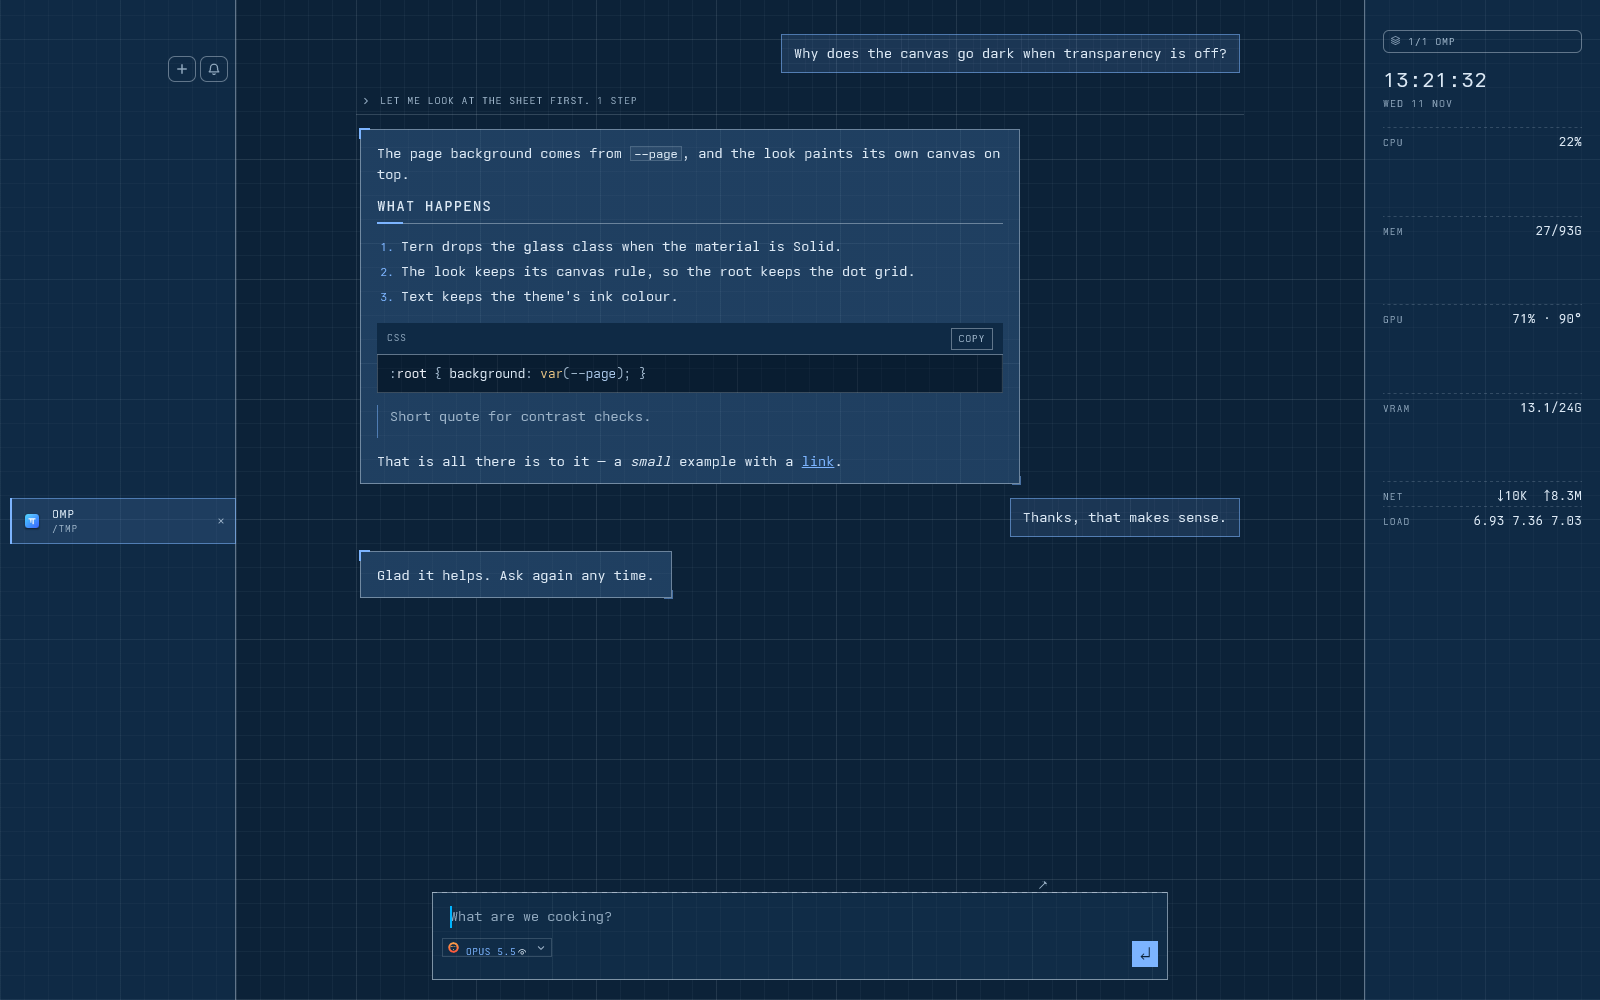
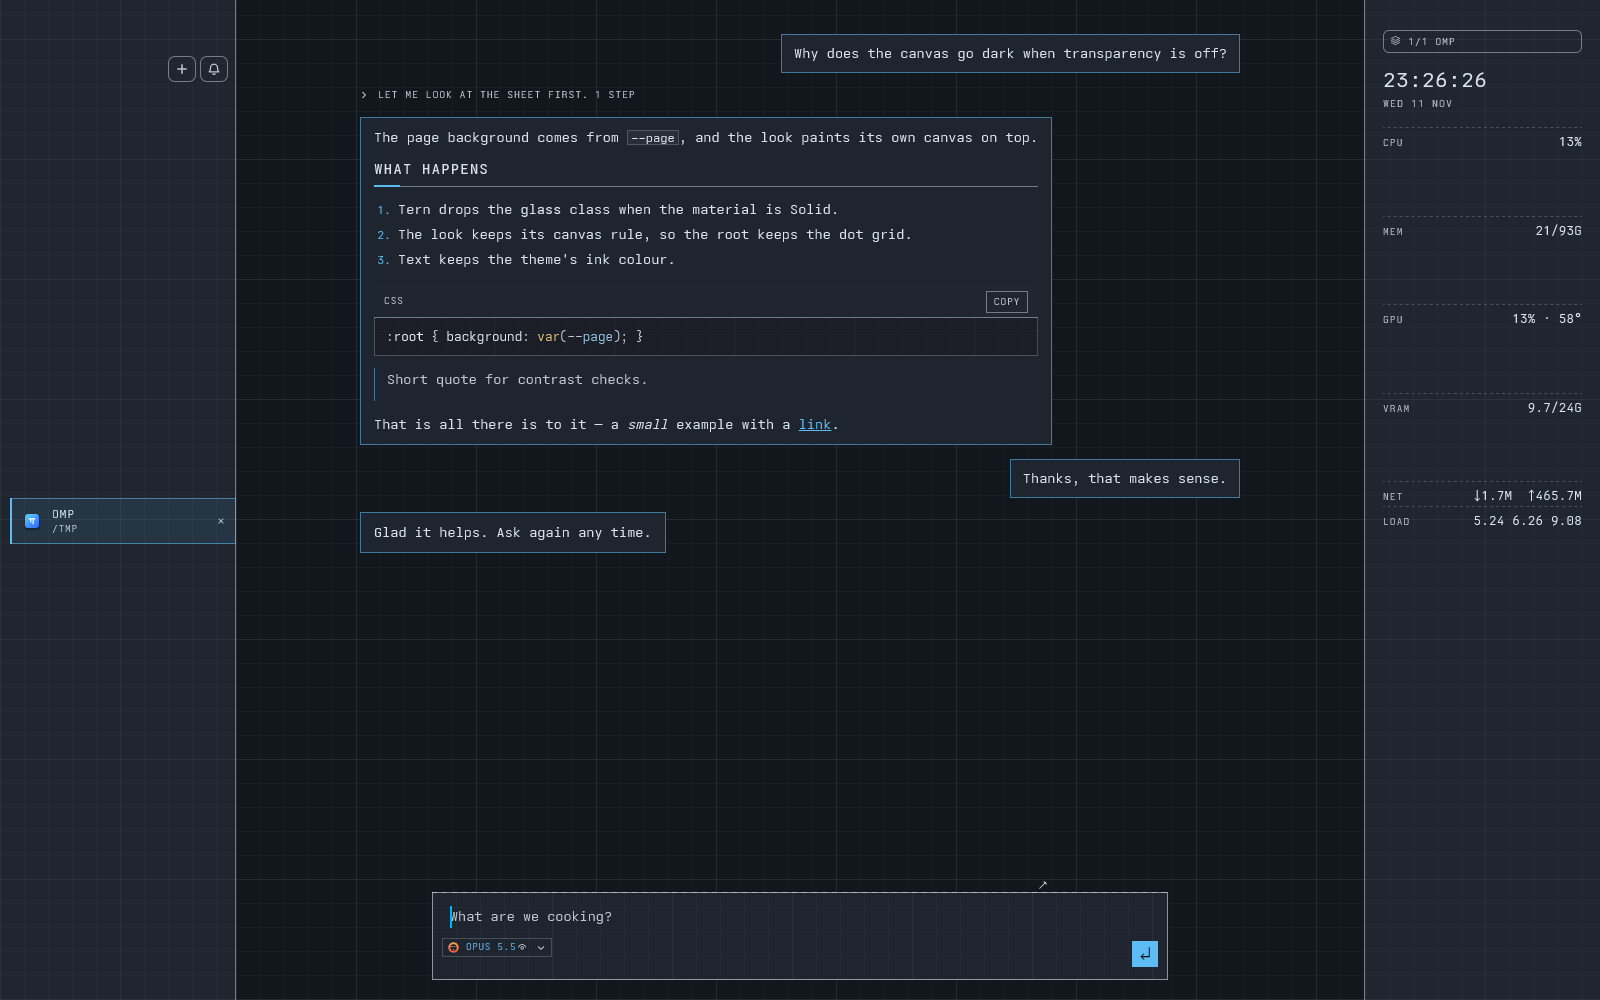
looks: no rule under a turn's worked-for row
A turn's tool steps fold into one notice head ('Worked for 25s · 4 steps').
Automata, Botanical, Blueprint and Departure drew their section-head rule and
padding under it too, so a collapsed turn read as an empty framed block with a
stray hairline; stock Tern and Grok draw neither. Notice heads now take the
plain row (Phosphor already did) and the following content sits where stock
puts it.

diff --git a/automata.css b/automata.css
@@ -919,6 +919,11 @@ html.tn-themed {
 	color: var(--at-ink);
 }
 
+:root:not(#aut) .sf-chat-reader .sf-section[data-role^='omp.notice.'] > .sf-section-head {
+	padding: 0;
+	box-shadow: none;
+}
+
 :root:not(#aut) .sf-chat-reader .sf-chev {
 	color: var(--at-t3);
 }

diff --git a/blueprint.css b/blueprint.css
@@ -933,6 +933,11 @@ html.tn-themed {
 	color: var(--bp-ink);
 }
 
+:root:not(#blp) .sf-chat-reader .sf-section[data-role^='omp.notice.'] > .sf-section-head {
+	padding: 0;
+	box-shadow: none;
+}
+
 :root:not(#blp) .sf-chat-reader .sf-chev {
 	color: var(--bp-t3);
 }

diff --git a/botanical.css b/botanical.css
@@ -935,6 +935,11 @@ html.tn-themed {
 	color: var(--bn-ink);
 }
 
+:root:not(#bnl) .sf-chat-reader .sf-section[data-role^='omp.notice.'] > .sf-section-head {
+	padding: 0;
+	box-shadow: none;
+}
+
 :root:not(#bnl) .sf-chat-reader .sf-chev {
 	color: var(--bn-t3);
 }

diff --git a/departure.css b/departure.css
@@ -824,6 +824,10 @@
 	background: transparent;
 }
 
+:root:not(#dep) .sf-section[data-role^='omp.notice.'] > .sf-section-head {
+	border-bottom: 0;
+}
+
 :root:not(#dep) .sf-section > .sf-section-body {
 	margin-left: 0;
 	padding: 6px 0 6px 12px;
